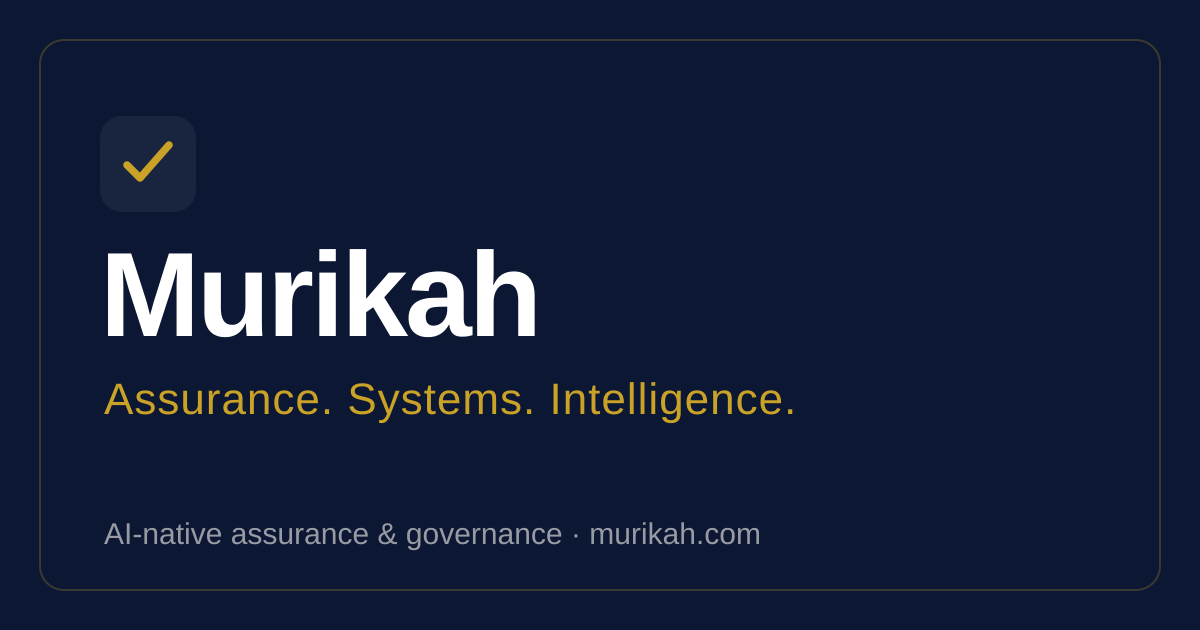
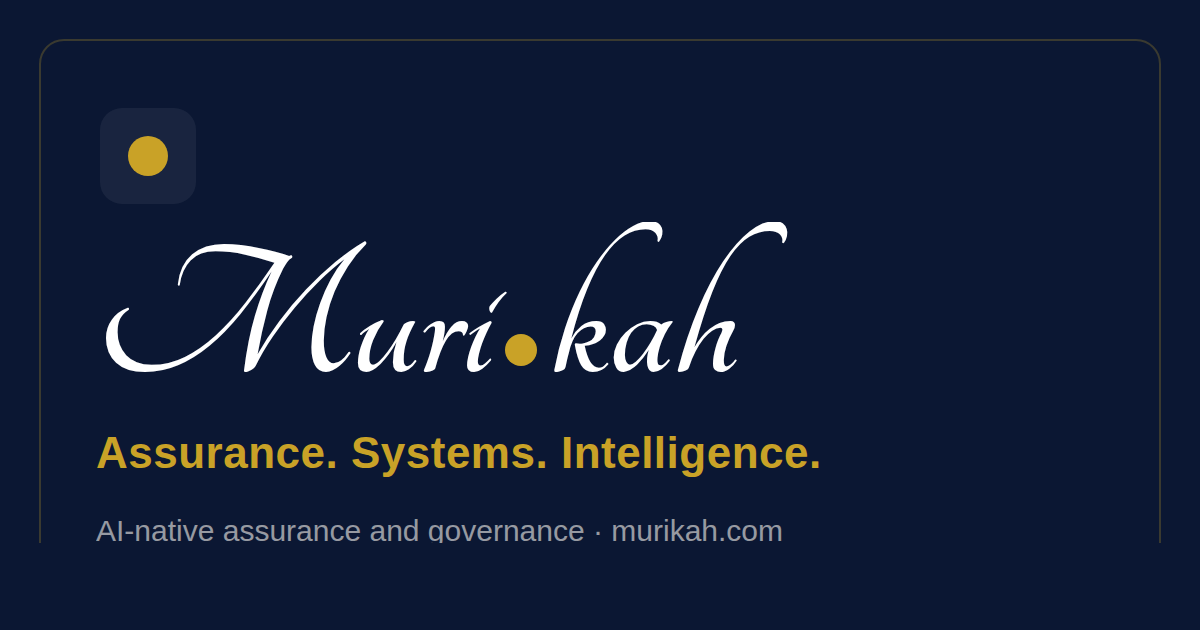
feat(brand): Tangerine "Muri.kah" wordmark, drop broad Africa framing, tighter footer
Part A: the logo wordmark is now "Muri.kah" set in Tangerine Bold (added via
@user/tangerine and scoped to the Logo component only), with the gold
spark standing in for the dot between the two halves, near the baseline. The
spoken and legal name stays "Murikah" everywhere in plain text, metadata and
structured data; the dot is aria-hidden. Small formats stay legible: the favicon
and any icon at or below about 32px use a simple companion mark, the navy tile
with the gold spark, never the script. The social card (og-default.svg and
og-default.png) is regenerated with the new wordmark.

Part B: remove broad "Africa" and "African" continental framing from visible
copy, titles, meta descriptions, llms.txt and the README, letting each sentence
read plainly. Specific regulatory and jurisdictional references (Kenya, SASRA,
the Central Bank of Kenya, the ODPC, the Data Protection Act) are kept, and the
structured-data areaServed field is left unchanged.

Part C: rebuild the footer to about a third of its height. One compact brand
block (mark plus the wordmark, nothing beneath), a single flat row of the
navigation links with no column headers, a one-line newsletter row, and the
existing thin bottom bar. The standards badges are removed from the footer.

Part D: the pronunciation line is removed from the footer and now sits once on
the home hero, where a first-time visitor still gets it.

Claude-Session: https://claude.ai/code/session_01UwzeBbrcfueDn7YktGQXR7

diff --git a/src/site.config.ts b/src/site.config.ts
@@ -62,7 +62,7 @@ export const SITE = {
   tagline: 'Assurance. Systems. Intelligence.',
   /** The one-liner. Used as the default meta description. */
   description:
-    'Murikah helps African organisations run, prove and continuously improve their internal audit and AI governance, with senior judgement and a working platform priced for the mid-market.',
+    'Murikah helps organisations run, prove and continuously improve their internal audit and AI governance, with senior judgement and a working platform priced for the mid-market.',
   url: SITE_URL,
   locale: 'en',
   /** Pronunciation cue, surfaced at first prominent use and in the footer. */
@@ -309,7 +309,7 @@ export const AUDIENCE: AudienceSegment[] = [
 /** Default SEO values, overridable per page via the Seo component. */
 export const DEFAULT_SEO = {
   /** Home and fallback title. */
-  defaultTitle: 'Internal audit and AI governance, built in Africa | Murikah',
+  defaultTitle: 'Internal audit and AI governance | Murikah',
   description: SITE.description,
   image: SITE.defaultOgImage,
 } as const;

diff --git a/README.md b/README.md
@@ -4,7 +4,7 @@
 > Pronounced _moo-REE-kah_ (rhymes with Eureka).
 
 Marketing website for **Murikah**, an AI-native assurance and governance company
-helping African organisations run, prove, and continuously improve their internal
+helping organisations run, prove, and continuously improve their internal
 audit and their AI and system governance.
 
 This repository is the **framework** (Build Prompt 1): project setup, design

diff --git a/docs/repo-snapshot.md b/docs/repo-snapshot.md
@@ -10,7 +10,7 @@ A read-only, point-in-time snapshot of the `wmurikah/Murikah` repository, prepar
 
 ## Overview
 
-Murikah is the marketing website for an AI-native assurance and governance company serving African organisations (internal audit, IT audit, data protection, and AI governance). On `main` the site is a content-led marketing site with final copy and a full SEO/AI-discoverability layer. The Labs interactive sandbox is present only as a **stubbed** React island, and there is no AI assistant on this branch yet.
+Murikah is the marketing website for an AI-native assurance and governance company serving organisations (internal audit, IT audit, data protection, and AI governance). On `main` the site is a content-led marketing site with final copy and a full SEO/AI-discoverability layer. The Labs interactive sandbox is present only as a **stubbed** React island, and there is no AI assistant on this branch yet.
 
 | Concern         | Value (from config on `main`)                                                                                        |
 | --------------- | -------------------------------------------------------------------------------------------------------------------- |